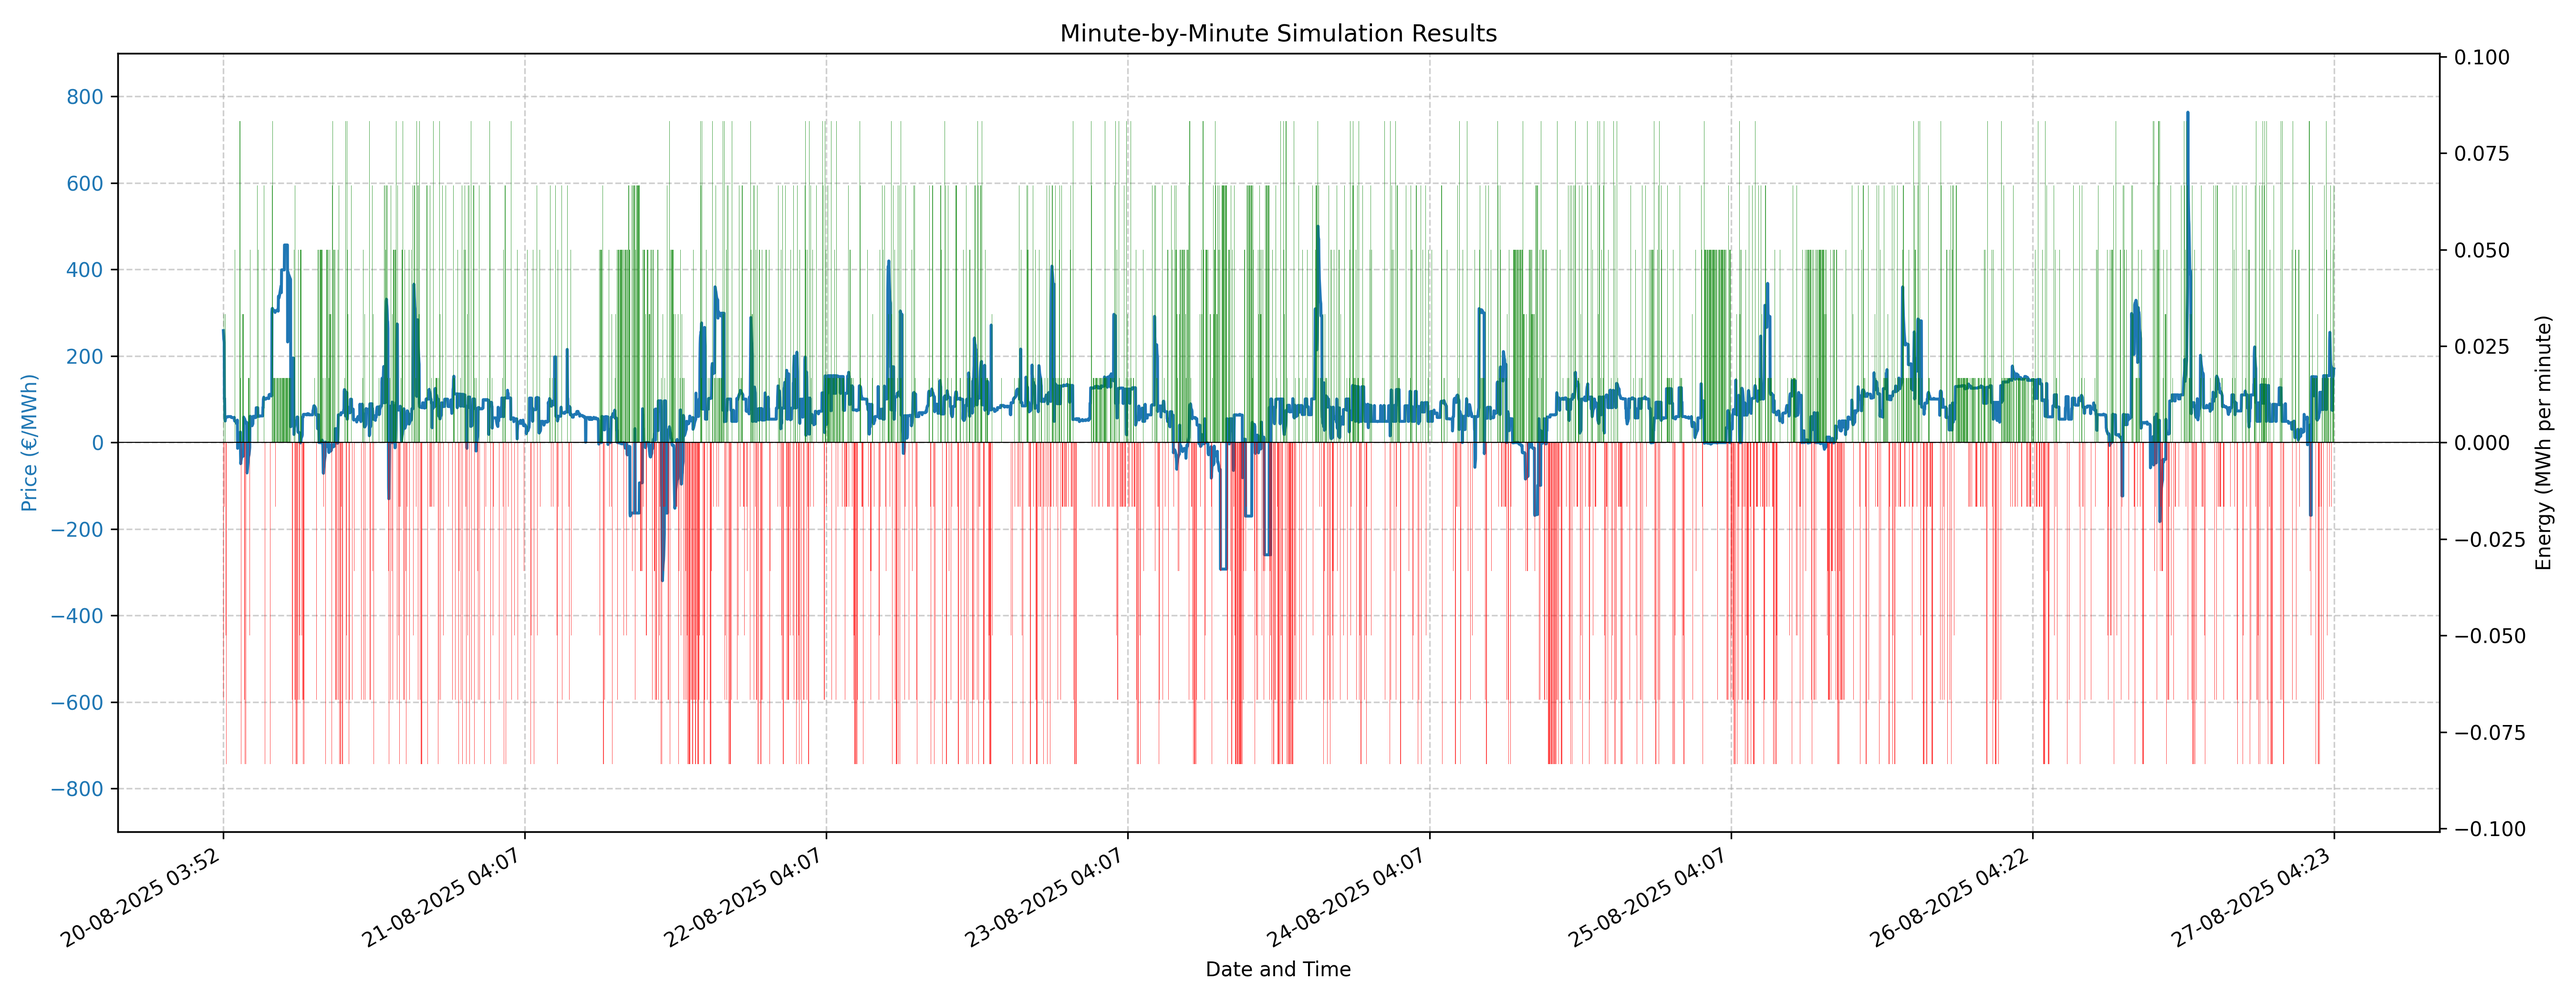
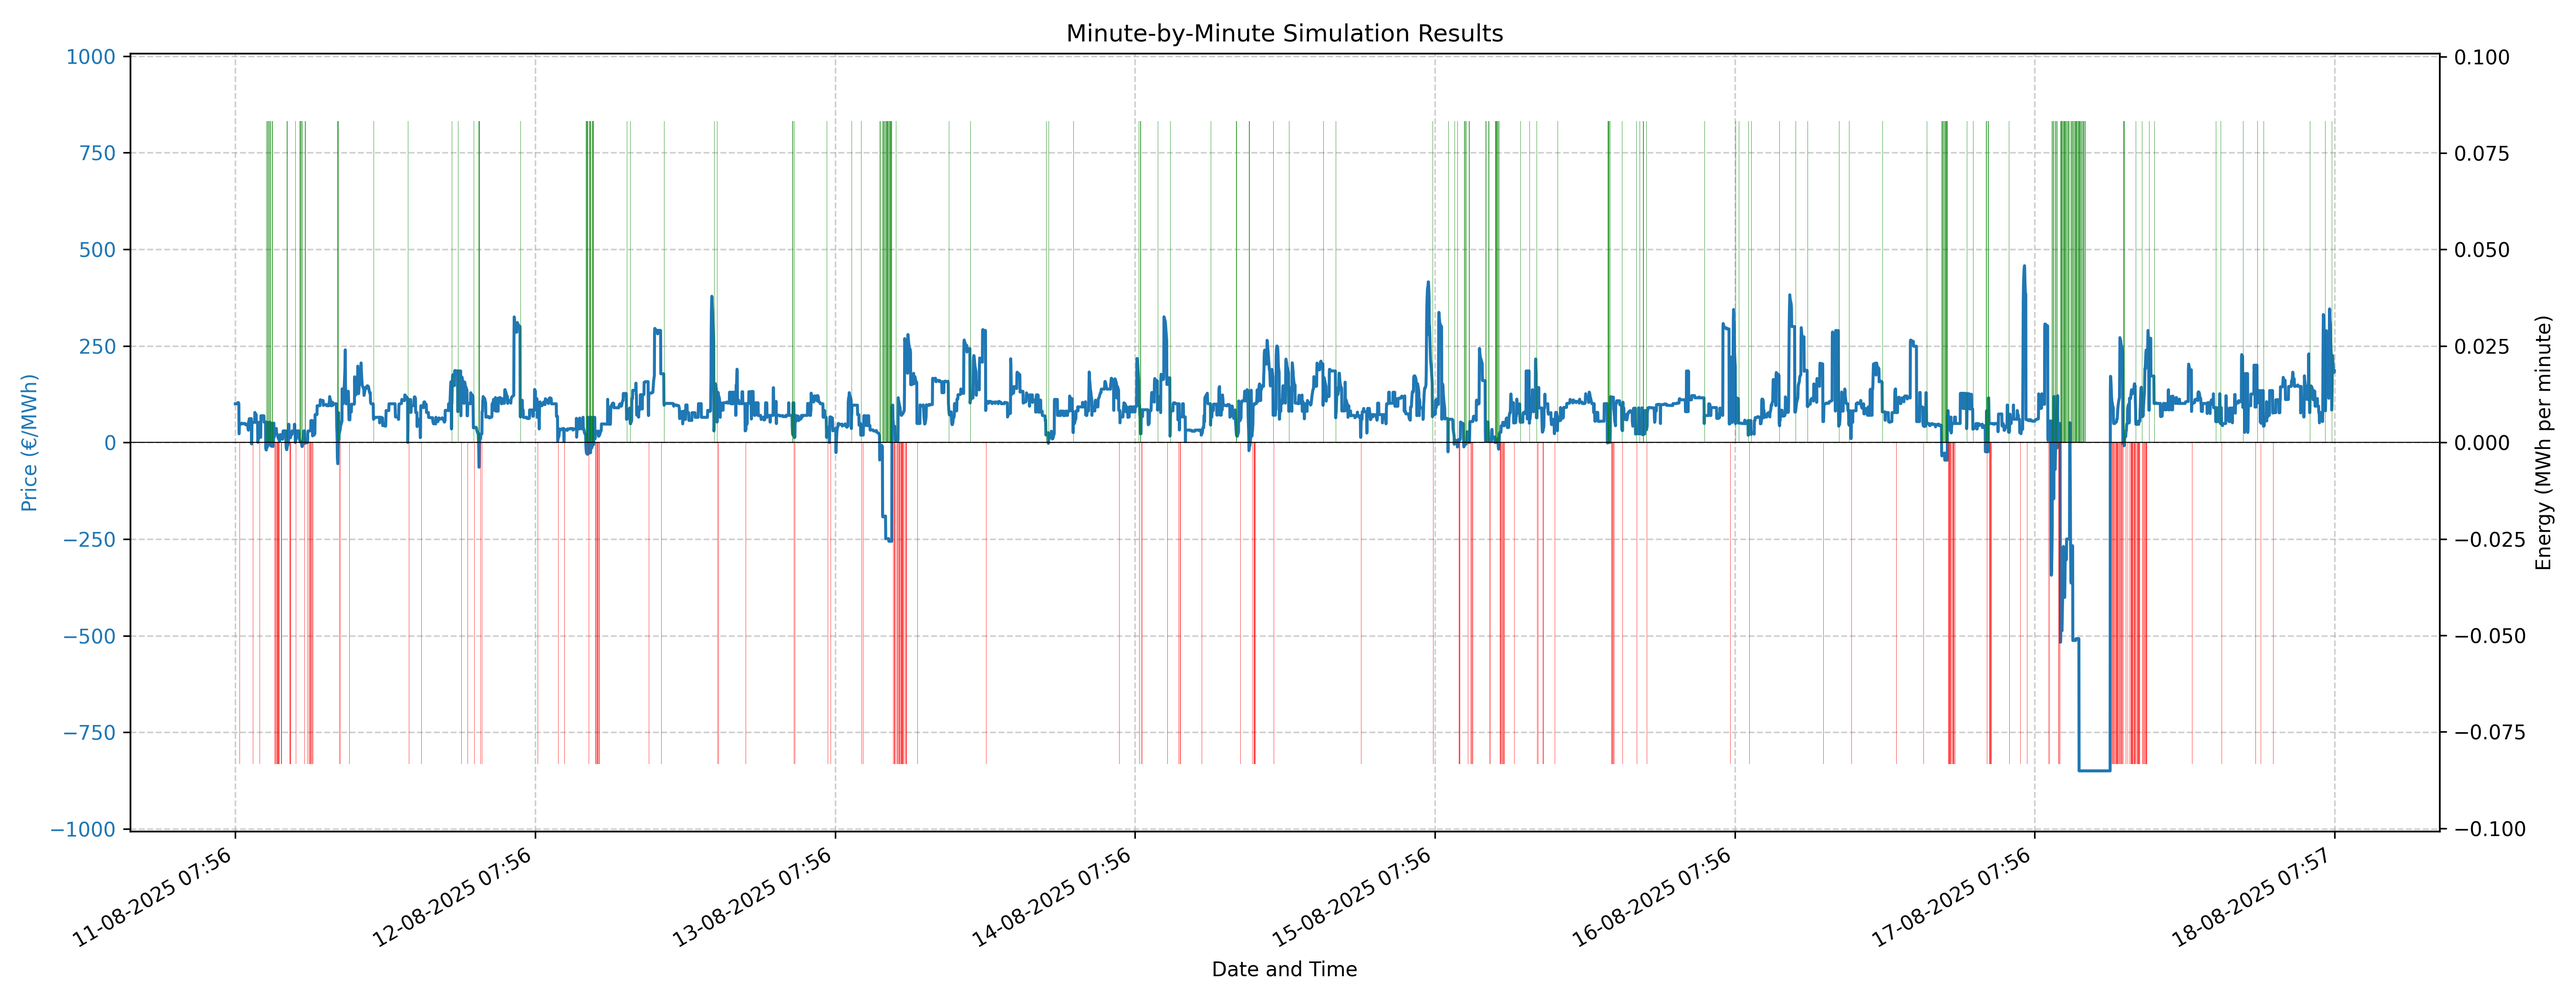
ppo

diff --git a/Simulation/suite_simple_trading/driver.py b/Simulation/suite_simple_trading/driver.py
@@ -4,7 +4,6 @@ import os
 import numpy as np
 import pandas as pd
 from sb3_contrib import MaskablePPO
-from sb3_contrib.common.wrappers import ActionMasker
 from sklearn.model_selection import TimeSeriesSplit
 from stable_baselines3 import DQN
 
@@ -116,7 +115,6 @@ if __name__ == '__main__':
             if args.mode == 'run':
                 # Any mode in run, runs on test data
                 rl_model_path = 'models/dqn_battery_trading_model.zip'
-
                 try:
                     print(f"Loading trained model from: {rl_model_path}")
                     rl_model = DQN.load(rl_model_path)
@@ -205,6 +203,7 @@ if __name__ == '__main__':
                     model_save_path='models/ppo_battery_trading_model',
                     total_timesteps=3*len(train_df),
                 )
+                exit()
 
             elif args.mode == 'run':
                 print(f"\n--- Starting PPO RL Agent Run Mode ---")
@@ -215,7 +214,7 @@ if __name__ == '__main__':
                     number_of_past_prices=5
                 )
 
-                model_path = 'models/ppo_battery_model.zip'
+                model_path = 'models/ppo_battery_trading_model.zip'
                 try:
                     rl_model = MaskablePPO.load(model_path)
                     decision_maker = RLAgentDecisionMaker(rl_model)
@@ -223,7 +222,6 @@ if __name__ == '__main__':
                 except FileNotFoundError:
                     print(f"Error: Trained PPO model not found at '{model_path}'.")
                     exit()
-
 
     elif args.command == 'heuristic':
         if args.mode == 'run':
@@ -270,7 +268,22 @@ if __name__ == '__main__':
         end_minute_index = start_minute_index + 1440
 
     print(f"Plotting from minute {start_minute_index} to {end_minute_index}...")
-    plot_simulation_results_minute_by_minute(history_df, start_minute_index, end_minute_index)
+
+    if args.method == 'ppo':
+        plot_simulation_results_minute_by_minute(
+            history_df,
+            'simulation_results_ppo_1',
+            start_minute_index,
+            end_minute_index
+        )
+    elif args.method == "dqn":
+        plot_simulation_results_minute_by_minute(
+            history_df,
+            'simulation_results_dqn_1',
+            start_minute_index,
+            end_minute_index
+        )
+
     print(f"Total Profit: {history_df['rewards'].sum():.2f} EUR")
     test_env.close()
     train_env.close()

diff --git a/Simulation/suite_simple_trading/plotting.py b/Simulation/suite_simple_trading/plotting.py
@@ -6,7 +6,12 @@ import matplotlib.ticker as mticker
 import numpy as np
 
 
-def plot_simulation_results_minute_by_minute(results: pd.DataFrame, start_minute: int = 0, end_minute: int = 1440):
+def plot_simulation_results_minute_by_minute(
+        results: pd.DataFrame,
+        filename: str,
+        start_minute: int = 0,
+        end_minute: int = 1440
+):
     """
     Plots minute-by-minute results with full date and time labels,
     derived from the 'datetimes' key in the results.
@@ -20,7 +25,7 @@ def plot_simulation_results_minute_by_minute(results: pd.DataFrame, start_minute
     color = 'tab:blue'
     ax1.set_xlabel('Date and Time')
     ax1.set_ylabel('Price (€/MWh)', color=color)
-    # Gebruik de integer-index van de geslicede DataFrame voor de x-as
+
     ax1.plot(plot_df.index, plot_df['prices'], color=color, linestyle='-', label='Price')
     ax1.tick_params(axis='y', labelcolor=color)
     ax1.grid(True, linestyle='--', alpha=0.6)
@@ -76,7 +81,6 @@ def plot_simulation_results_minute_by_minute(results: pd.DataFrame, start_minute
 
     # Define the directory and filename for the plot
     plots_dir = 'plots'
-    filename = 'simulation_results_dqn_1.png'
     full_path = os.path.join(plots_dir, filename)
     os.makedirs(plots_dir, exist_ok=True)
 
